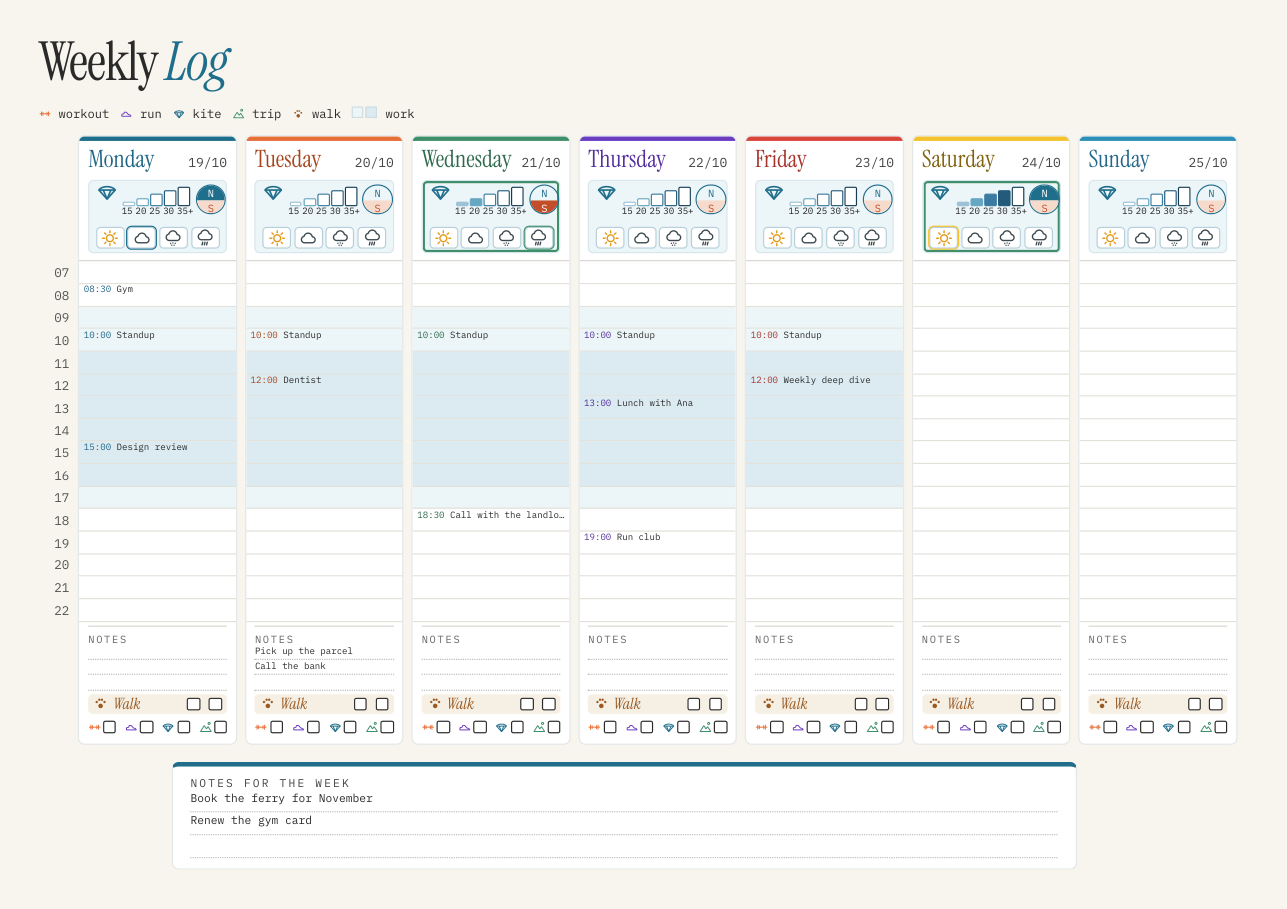
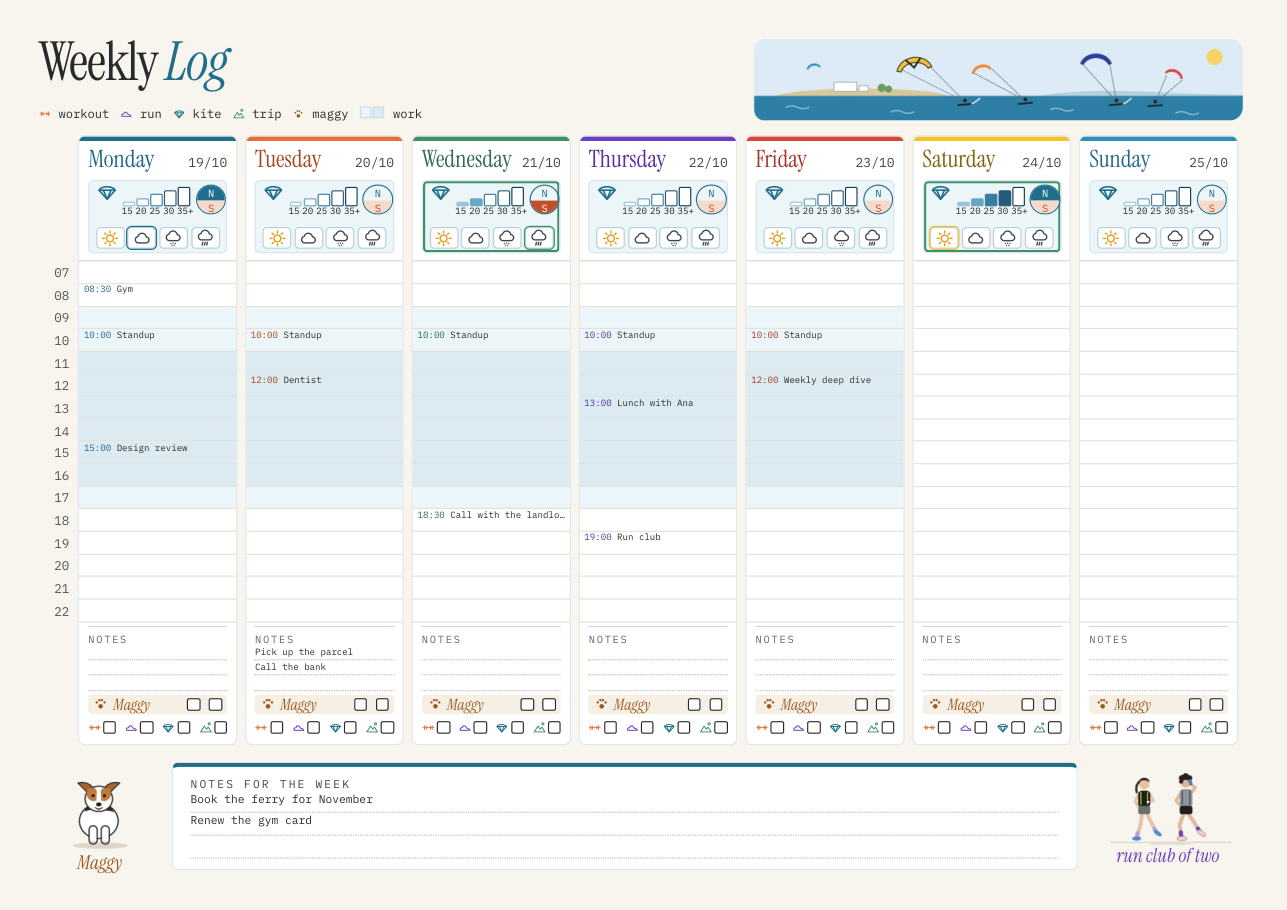
weekpage: the example week is the original design, with its pictures
The README picture and the example settings had dropped the three
pictures of the original page (the bay banner, the dog and the two
runners) and renamed the walk row. They are back in examples/art, the
example settings use them, and the README picture is rendered again from
those settings. The approved test images are rendered again to match, and
the picture test now checks that the art is the only raster on the page.

diff --git a/tests/test_render.py b/tests/test_render.py
@@ -1,3 +1,4 @@
+from dataclasses import replace
 from pathlib import Path
 
 import pymupdf as fitz
@@ -6,7 +7,7 @@ from pypdf import PdfReader
 
 from weekpage.model import load_week
 from weekpage.render import render_html, render_pdf
-from weekpage.settings import load_settings
+from weekpage.settings import Art, load_settings
 
 ROOT = Path(__file__).parents[1]
 S = load_settings(ROOT / "examples" / "settings.toml")
@@ -38,10 +39,13 @@ def test_a_holiday_does_not_move_the_hour_rows(tmp_path):
     assert html.index('class="rows"') < html.index('class="off"')     # the label sits inside the rows, positioned
 
 
-def test_text_is_vector_not_a_picture(tmp_path):
+def test_text_is_vector_and_the_only_pictures_are_the_art(tmp_path):
     doc = fitz.open(render_pdf(load_week(WEEKS / "busy.json"), S, tmp_path / "b.pdf"))
-    assert doc[0].get_images() == []          # the example settings carry no pictures
+    assert len(doc[0].get_images()) == 3      # the banner and the two corner pictures
     assert len(doc[0].get_fonts()) >= 2       # the display serif and the mono
+    plain = replace(S, art=Art())
+    doc = fitz.open(render_pdf(load_week(WEEKS / "busy.json"), plain, tmp_path / "p.pdf"))
+    assert doc[0].get_images() == []          # without art the whole page is vector
 
 
 @pytest.mark.parametrize("name", ["empty", "busy", "holiday", "full_hour"])
